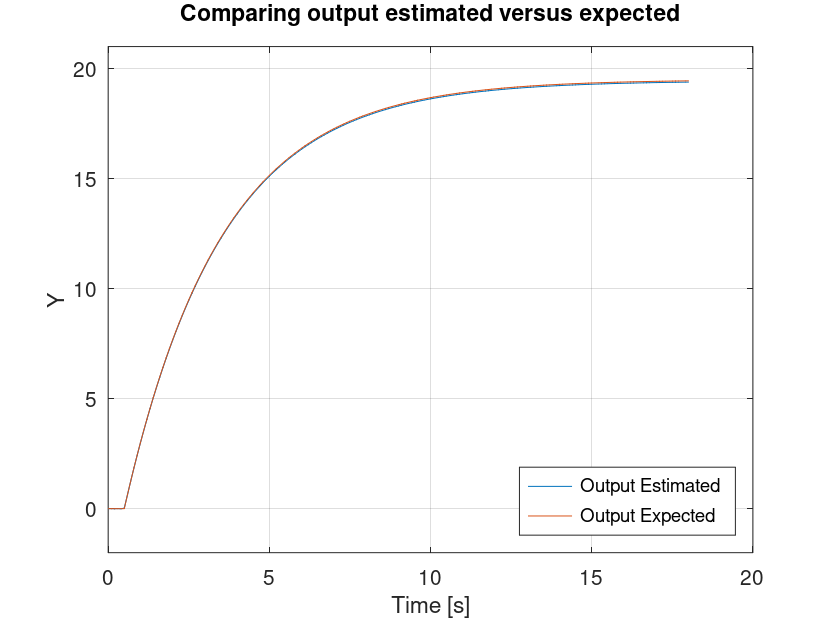
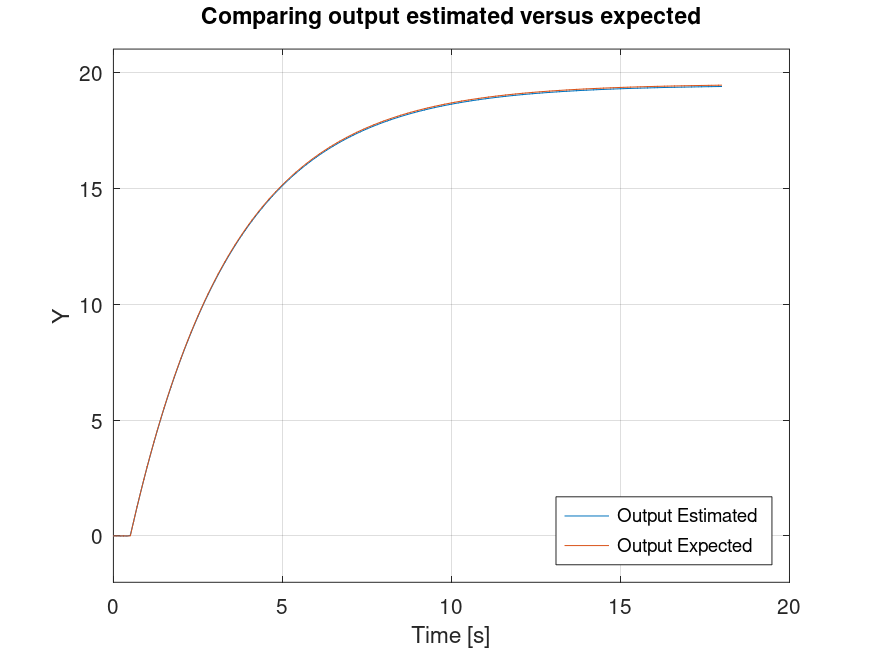
Updated scripts and images.

diff --git a/src/load_values.m b/src/load_values.m
@@ -8,7 +8,7 @@ load transfer_function/TransferFunction13.mat;
 %plot(t, saida);
 
 % defining transfer function using smith method
-delta_output = saida(181) - saida(1);
+delta_output = saida(end) - saida(1);
 delta_input = degrau(1);
 
 % getting k
@@ -39,54 +39,52 @@ h_pade = tf(num, den);
 sys_opened_loop = sys_without_delay * h_pade;
 
 % using step function in order to get output estimated values
-[output_open_loop, t, x] = step(delta_input * sys_opened_loop, t);
+[output_opened_loop, t, x] = step(delta_input * sys_opened_loop, t);
 
 % comparing two transfer functions
-%hf = figure();
-%plot(t, output_open_loop, t, saida);
-%grid on;
-%title('Comparing output estimated versus expected');
-%xlabel('Time [s]');
-%ylabel('Y');
-%ylim([-2 21]);
-%legend('Output Estimated', 'Output Expected', 'location', 'southeast');
-%print(hf, "transfer_functions.pdf", "-dpdflatexstandalone");
+plot(t, output_opened_loop, t, saida);
+hold on;
+grid on;
+title('Comparing output estimated versus expected');
+xlabel('Time [s]');
+ylabel('Y');
+ylim([-2 21]);
+legend('Output Estimated', 'Output Expected', 'location', 'southeast');
+print -dpng 'figures/01-Comparing_transfer_functions.png'
+hold off;
 
-%hf = figure();
-%plot(t, output_open_loop, t, degrau);
-%grid on;
-%title('Comparing Opened Loop versus Step');
-%xlabel('Time [s]');
-%ylabel('Y');
-%ylim([-2 21]);
-%legend('Opened Loop', 'Step', 'location', 'southeast');
-%print(hf, "output_opened_loop_vs_degrau.pdf", "-dpdflatexstandalone");
+% comparing output of opened loop with input required
+plot(t, output_opened_loop, t, degrau);
+hold on;
+grid on;
+title('Comparing Opened Loop versus Step');
+xlabel('Time [s]');
+ylabel('Y');
+ylim([-2 21]);
+legend('Opened Loop', 'Step', 'location', 'southeast');
+print -dpng 'figures/02-Output_opened_loop_vs_step.png'
+hold off;
 
-% error in open loop case
-error_open_loop = delta_input - delta_output;
+% error in opened loop case
+error_opened_loop_real = delta_input - saida(end)
+error_opened_loop_predict = delta_input - output_opened_loop(end)
 
 % creating closed loop system
-sys_closed_loop = feedback(sys_opened_loop, 1)
+sys_closed_loop = feedback(sys_opened_loop, 1);
 
 % getting output of closed loop applying a step of 13
-%hf = figure();
-%[output_closed_loop, t, x] = step(delta_input * sys_closed_loop, t)
-%plot(t, output_closed_loop, t, degrau);
-%grid on;
-%title('Comparing Closed Loop versus Step');
-%xlabel('Time [s]');
-%ylabel('Y');
-%ylim([-2 15]);
-%legend('Closed Loop', 'Step', 'location', 'southeast');
-%saveas(hf, "output_closed_loop_vs_degrau.png", "png");
+[output_closed_loop, t, x] = step(delta_input * sys_closed_loop, t);
+plot(t, output_closed_loop, t, degrau);
+hold on;
+grid on;
+title('Comparing Closed Loop versus Step');
+xlabel('Time [s]');
+ylabel('Y');
+ylim([-2 15]);
+legend('Closed Loop', 'Step', 'location', 'southeast');
+print -dpng 'figures/03-Output_closed_loop_vs_step.png'
+hold off;
 
-error_closed_loop = delta_input - output_closed_loop(181)
-
-
-
-
-
-
-
-
+% error in closed loop case
+error_closed_loop_predict = delta_input - output_closed_loop(end)
 

diff --git a/src/chr1.m b/src/chr1.m
@@ -7,7 +7,8 @@ sys_p = pidstd(kp);
 
 sys_chr_p = feedback(sys_opened_loop*sys_p, 1);
 
-[output_chr_p, t, x] = step(delta_input * sys_chr_p, t)
+% plottig
+[output_chr_p, t, x] = step(delta_input * sys_chr_p, t);
 plot(t, output_chr_p, t, degrau);
 hold on;
 grid on;
@@ -28,7 +29,8 @@ sys_pi = pidstd(kp, ti);
 
 sys_chr_pi = feedback(sys_opened_loop*sys_pi, 1);
 
-[output_chr_pi, t, x] = step(delta_input * sys_chr_pi, t)
+% plottig
+[output_chr_pi, t, x] = step(delta_input * sys_chr_pi, t);
 plot(t, output_chr_pi, t, degrau);
 hold on;
 grid on;
@@ -51,7 +53,8 @@ sys_pid = pidstd(kp, ti, td);
 
 sys_chr_pid = feedback(sys_opened_loop*sys_pid, 1);
 
-[output_chr_pid, t, x] = step(delta_input * sys_chr_pid, t)
+% plottig
+[output_chr_pid, t, x] = step(delta_input * sys_chr_pid, t);
 plot(t, output_chr_pid, t, degrau);
 hold on;
 grid on;
@@ -64,6 +67,7 @@ set(h, "fontsize", 14);
 print -dpng 'figures/CHR/03-PID_vs_step.png'
 hold off;
 
+% Controllers comparison
 plot(t, output_chr_p, 'r---');
 hold on;
 plot(t, output_chr_pi, 'g---');

diff --git a/src/menu.m b/src/menu.m
@@ -1,20 +1,21 @@
+% Entry values
 kp = input("Kp value: ");
 ti = input("Ti value: ");
 td = input("Td value: ");
 setpoint = input("Setpoint value: ");
-y_max = setpoint * 1.5;
 
 sys_pid = pidstd(kp, ti, td);
 
+% plotting
 sys_series_pid = feedback(sys_opened_loop*sys_pid, 1);
-[output, t, x] = step(setpoint * sys_series_pid, t)
+[output, t, x] = step(setpoint * sys_series_pid, t);
 setpoint = setpoint * ones(181,1);
 plot(t, output, t, setpoint);
 grid on;
 title('Constants from user input - PID Controller');
 xlabel('Time [s]');
 ylabel('Y');
-ylim([-2 y_max]);
+ylim([-2 max(output + 1)]);
 h = legend('PID', 'Step', 'location', 'southeast');
 set(h, "fontsize", 14);
 

diff --git a/src/integral_erro.m b/src/integral_erro.m
@@ -7,7 +7,8 @@ sys_pid = pidstd(kp, ti, td);
 
 sys_integral_pid = feedback(sys_opened_loop*sys_pid, 1);
 
-[output_integral_pid, t, x] = step(delta_input * sys_integral_pid, t)
+% plotting
+[output_integral_pid, t, x] = step(delta_input * sys_integral_pid, t);
 plot(t, output_integral_pid, t, degrau);
 hold on;
 grid on;
